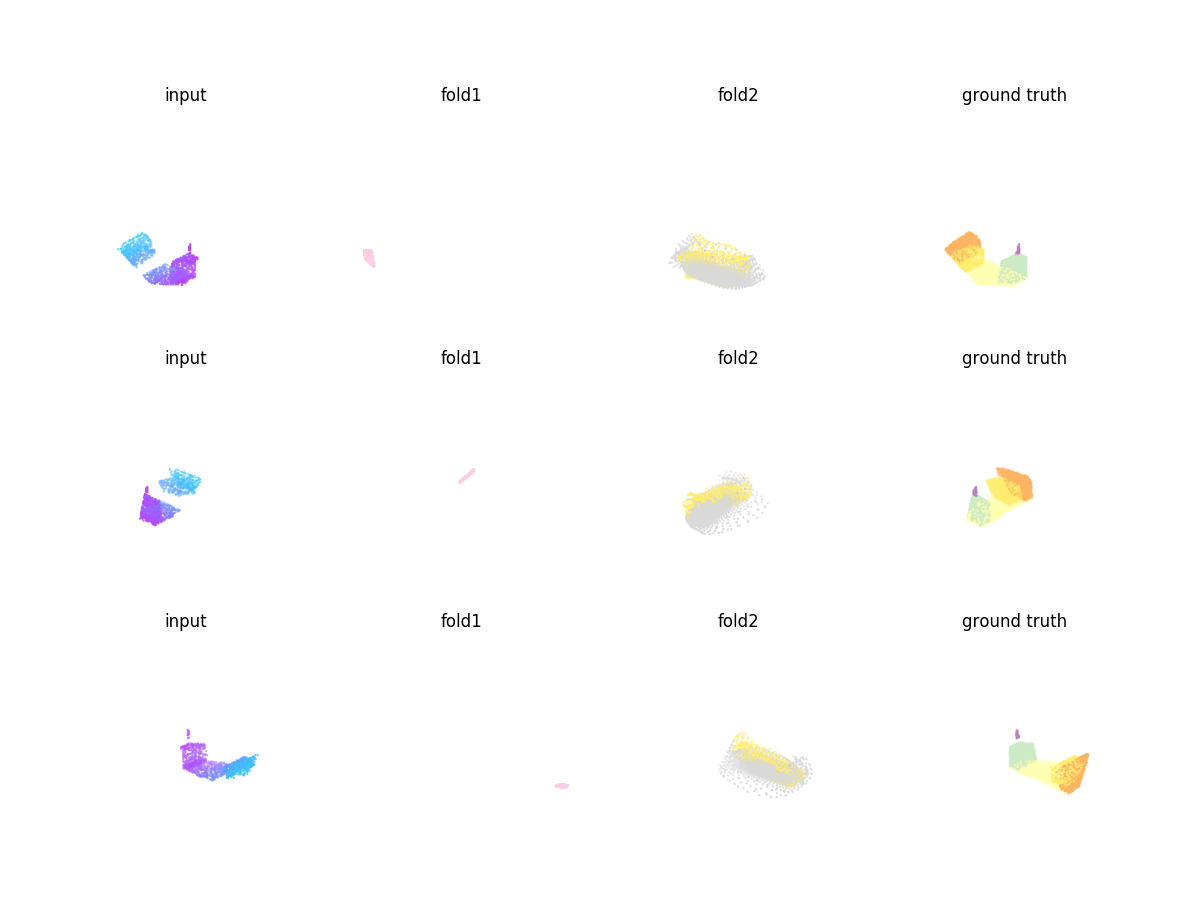
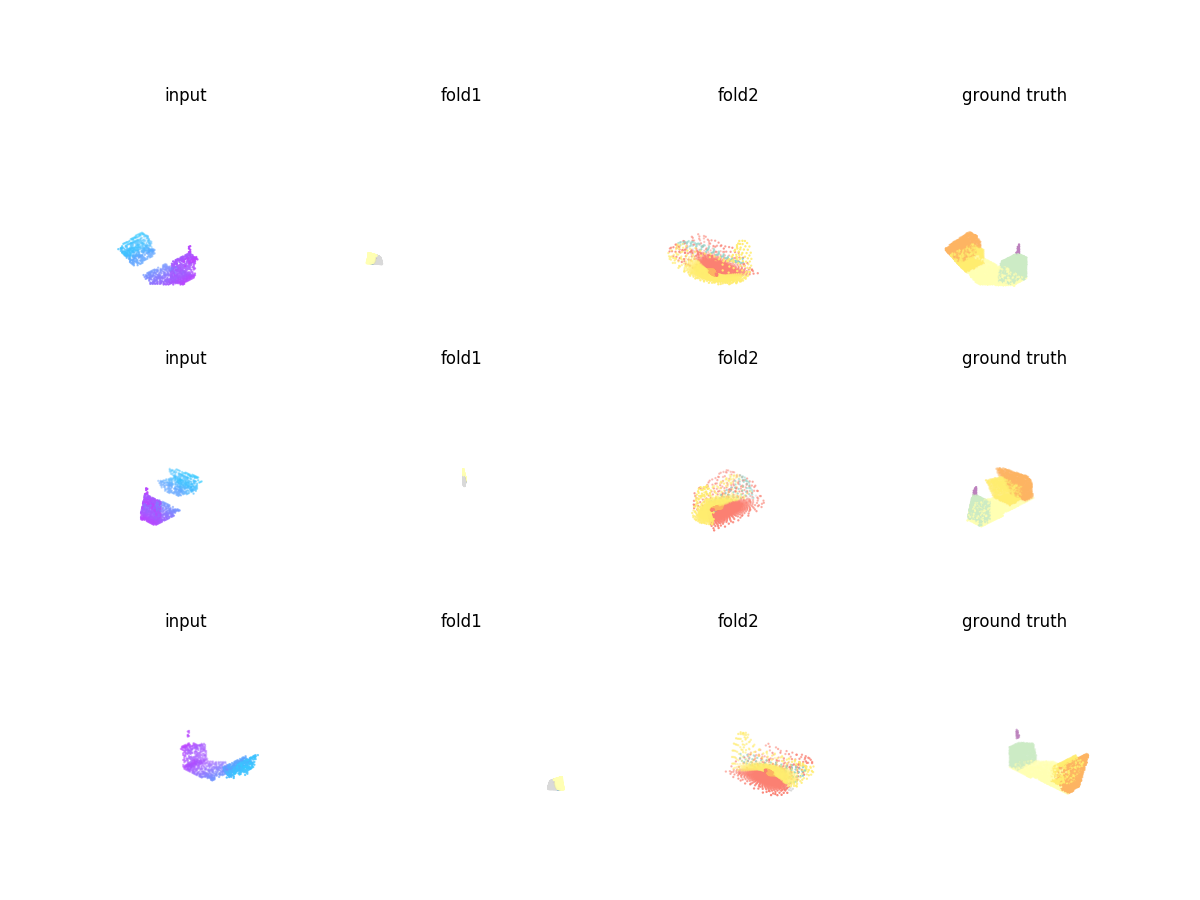
add plots

diff --git a/models/pcn_fold.py b/models/pcn_fold.py
@@ -41,8 +41,7 @@ class Model:
             tmp_s, tmp_u, tmp_v = tf.linalg.svd(fold1_reg[:,:,0:512])
             fold1_3d = tf.matmul(tmp_u, tf.matmul(tf.linalg.diag(tmp_s), tmp_v, adjoint_b=True))
         with tf.variable_scope('fold1_1', reuse=tf.AUTO_REUSE):
-            # fold1 = mlp_conv(fold1_reg[:,:,0:512], [512, 3+11])
-            fold1 = mlp_conv(fold1_3d[:,:,0:3], [512, 3+11])
+            fold1 = mlp_conv(fold1_reg[:,:,0:512], [512, 3+11])
         with tf.variable_scope('fold2', reuse=tf.AUTO_REUSE):
             fold2 = mlp_conv(tf.concat([point_feat, fold1[:,:,0:3]], axis=2), [512, 512, 3+11]) 
         return tf.concat([fold1_3d[:,:,0:3], fold1_reg[:,:,512:]], axis=2), fold2

diff --git a/models/pcn_atlas.py b/models/pcn_atlas.py
@@ -7,8 +7,8 @@ from tf_util import *
 
 class Model:
     def __init__(self, inputs, npts, gt, alpha):
-        self.num_coarse = 16
-        self.grid_size = 32
+        self.num_coarse = 64
+        self.grid_size = 16
         self.grid_scale = 0.05
         self.num_fine = self.grid_size ** 2 * self.num_coarse
         self.features = self.create_encoder(inputs, npts)
